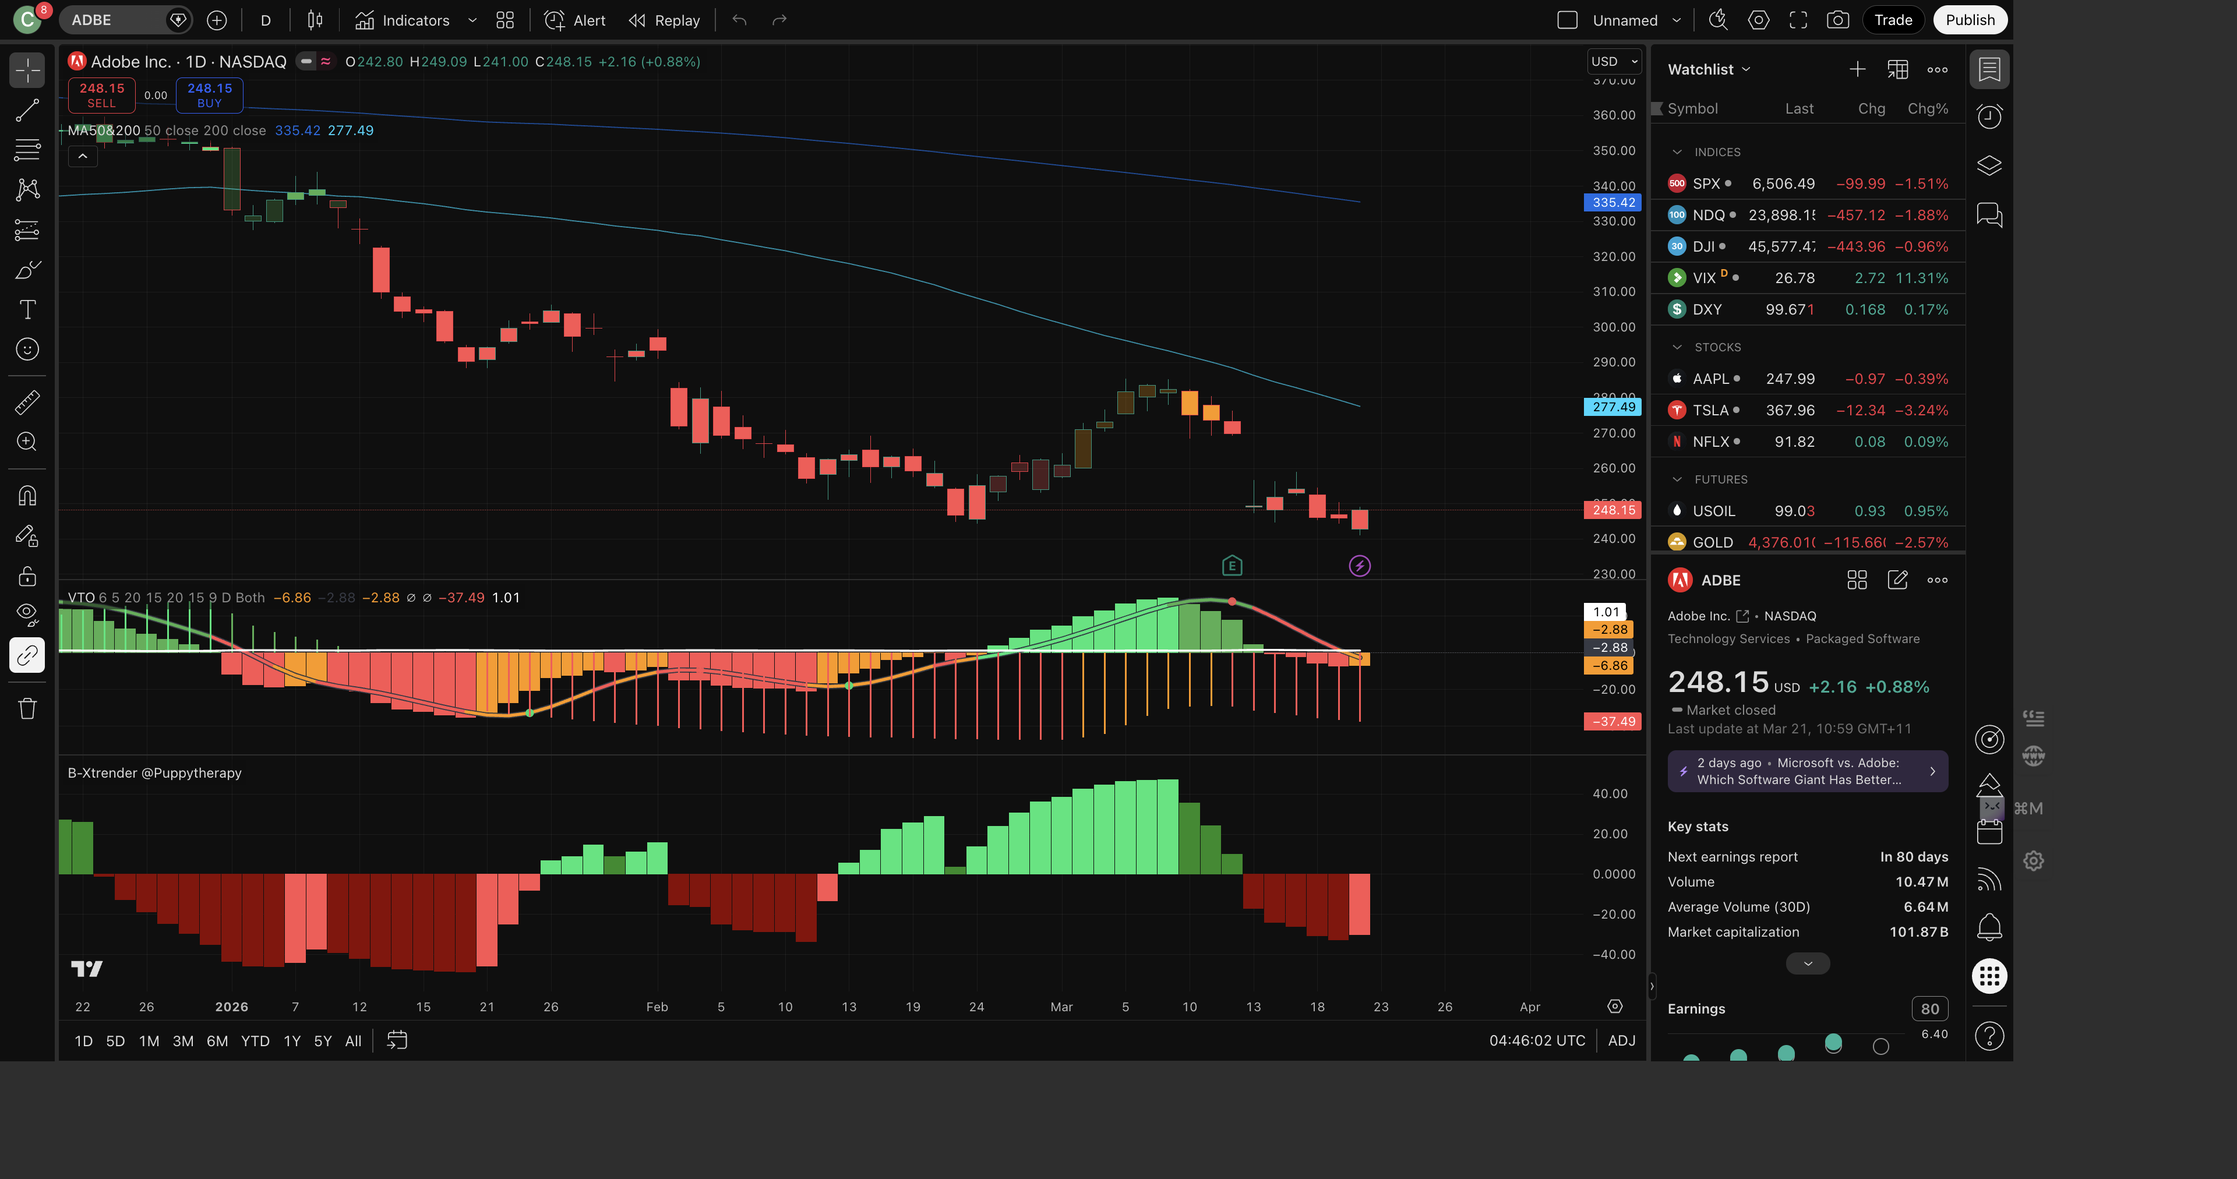
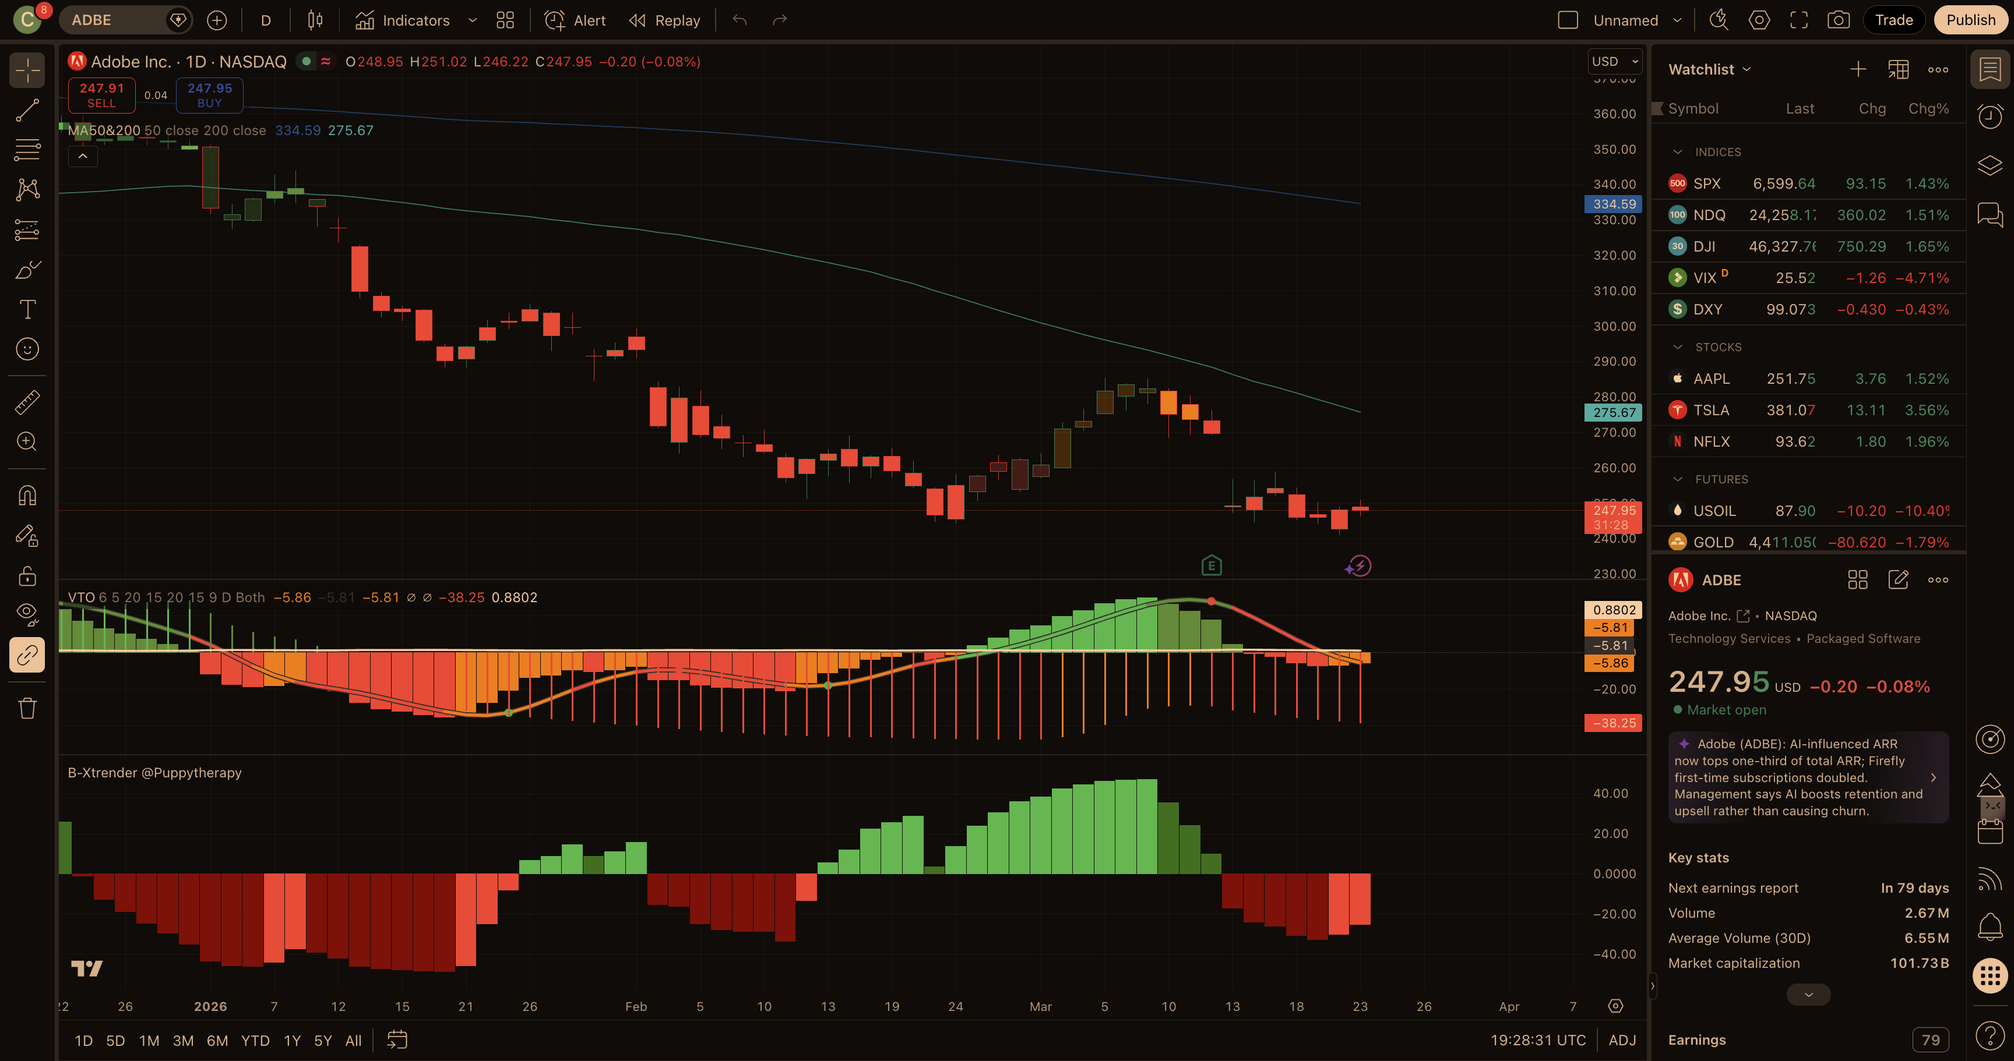
24 march

diff --git a/strategies/bearish-call-spread/report.md b/strategies/bearish-call-spread/report.md
@@ -1,142 +1,146 @@
 # Bearish Call Spread — Current Report
-_Last updated: 2026-03-23_
+_Last updated: 2026-03-24_
 
 ---
 
 ## Market Context
 
-The S&P 500 (~6,506) is trading **below** its 200-day moving average (~6,624), consistent with a repair phase after the mid-March breakdown rather than a confirmed new leg up. The **VIX is elevated near ~27**, which keeps index option premium firm and generally supports credit-spread structures—provided short calls are placed **above** obvious moving-average and supply ceilings. Bear call spreads still face gap risk on sharp tech-led bounces, so the emphasis remains on layered resistance and conservative short deltas rather than squeezing strikes.
+The S&P 500 (SPY ~$657.6) is effectively **on** its 200-day moving average (~$656.9) and **below** the 50-day (~$681.5)—a choppy repair phase rather than a clean bull trend. **VIX ~25.4** is just inside the “elevated” band (~25), which helps credit pricing but also warns that gap-and-go rallies can still occur. For bear call spreads, that combination argues for **conservative short strikes** (ideally at/above obvious MA/supply ceilings) and verification that momentum indicators are not mid-bounce.
 
 ---
 
 ## Scan & Triage (this run)
 
-**Source:** User watchlist screenshot (22 symbols). **Prices used for analysis** are live Yahoo quotes as of this run (aligned with scan direction; intraday watchlist prints may differ slightly).
+**Source:** User watchlist / scan image (21 symbols). **Live prices & MAs** for triage and scoring were pulled via Yahoo Finance (unofficial) as of this run; watchlist prints in the screenshot may differ slightly.
 
-**Triage cuts (abbreviated):** **WFC / COF / MS** — financials showing relative strength or bounce risk vs. the bear thesis; **GOOG, GILD, BMY, RTX, TJX, MRK, SBUX** — trading **above** the 200-day MA, which weakens Category A “broader downtrend” scoring; **ANET** — perched ~flat on the 200-day; **HOOD** — first clean overhead supply sits materially above spot vs. tighter MA-defined ceilings elsewhere; **JPM / DIS** — workable charts but deprioritized vs. deeper software breakdowns already in the triage funnel. Full research concentrated on **ADBE, ORCL, NOW, CRWD, AMZN**; **CRWD** and **AMZN** scored below the top three on the combined resistance / fundamental-bearish grid.
+**Universe (from image):** PM, WFC, GE, TSLA, AVGO, GOOG, GILD, ADBE, SBUX, TXN, META, NOW, AAPL, HOOD, BMY, V, NVDA, KO, CRM, AMZN, RTX.
+
+**Triage cuts (abbreviated):**
+
+- **GOOG, GILD, BMY, RTX, KO, SBUX, AAPL** — spot still **above** the 200-day MA in Yahoo history, which weakens Category A “broader downtrend” quality versus names trading under both major MAs.
+- **AVGO** — price essentially **pinned** to the 200-day; chop risk versus cleaner “below both MAs” software breakdowns.
+- **PM, GE, TXN** — **flat to slightly above** the 200-day; workable but deprioritized vs. deeper large-cap tech/media breakdowns.
+- **WFC, HOOD, TSLA, V, NVDA, AMZN, CRM** — retained for scoring funnel; **CRM** reached the numeric top tier but **failed full TradingView bearish alignment** (see below), so **META** was substituted as the third final pick.
 
 ---
 
 ## Today's Top Picks
 
-### 1. ADBE — Premium reset + declining 50/200-day ceiling
+### 1. META — Mega-cap breakdown; regulatory headline overhang
 
 ```
-Ticker: ADBE
-Current Price: $248.15
-Sector: Technology / Software
-Score: 74/100 (A:36 B:23 C:6 D:14 Ded:-5)
+Ticker: META
+Current Price: $606.49
+Sector: Communication Services / Internet Content
+Score: 70/100 (A:38 B:15 C:2 D:15 Ded:0)
 
 Setup Summary:
-Adobe is working through a post–Figma-deal multiple compression while price remains trapped under a falling 50-day (~$276) and a much higher 200-day (~$335). That creates a natural “stair-step” resistance story for a bear call: rallies should start stalling into the high-$260s / low-$280s before a sustained recovery is credible.
+Meta has rolled over into a clear sub–50-day / sub–200-day posture after the peak-to-trough unwind from ~$740s. That layers a practical overhead “staircase” through the high-$600s into $700, which is attractive for a defined-risk call spread that stays above the nearest moving-average supply.
 
-Entry Zone: $248.15
-Stop Loss: N/A (spread: structure risk if spot sustains above short strike + net credit)
+Entry Zone: $606.49
+Stop Loss: N/A (spread: max loss if spot sustains above short strike + net credit)
 Target 1: N/A | Target 2: N/A
 Risk/Reward: Credit spread — max risk = width − net credit (verify in chain)
 
-Resistance Level: $275–$290 — 50-day MA slope + March supply shelf into the lower end of the broken base
+Resistance Level: $649–$689 — declining 50-day (~$649) into the prior 200-day / supply zone (~$689)
 
 Suggested Spread:
-  Short Call Strike: $285 (~0.18–0.22 delta) — above the 50-day / supply band
-  Long Call Strike:  $300 — $15-wide
-  Target Expiry:     April 2026 (~30 DTE)
+  Short Call Strike: $700 (~0.15–0.22 delta — confirm) — above layered overhead into $700 supply
+  Long Call Strike:  $720 — $20-wide
+  Target Expiry:     17 Apr 2026 (~24 DTE)
   Est. Probability of Profit: ~82% (delta proxy; confirm on platform)
 
-Short Strike Level (Stop Reference): $285 — breach reference for 14-day outcome tracking
+Short Strike Level (Stop Reference): $700 — 14-day outcome = spot vs this strike
 
 Key Risks:
-- Oversold rallies into the 50-day are common in software
-- AI / Firefly / product cadence can restore narrative momentum
-- Rates-driven multiple expansion can lift all high-quality SaaS
+- Mega-cap index risk-on days can produce violent cover rallies
+- Regulatory headlines (e.g., EU/WhatsApp scrutiny) can move the tape both directions
+- Still a high-quality business — this is primarily a trend + positioning trade
 
 Fundamental Note:
-Adobe remains highly cash-generative, but growth has cooled and sentiment is still normalizing after the abandoned Figma acquisition and a slower digital-media expansion path.
+Profitability remains strong; the bearish edge is technical (broken intermediate trend) plus headline/regulatory friction rather than balance-sheet distress.
 ```
 
-**TradingView** (saved layout `z25AhAlV`, 1D, NASDAQ:ADBE): VTO red **sell** dot **yes**; B-Xtrender **bearish** (red below zero) **yes**. **Chart confirm: full** (snapshot below).
+**TradingView** (layout `z25AhAlV`, 1D, NASDAQ:META): VTO **bearish / sub-zero regime** on latest bars. B-Xtrender **bearish** (red below zero). Screenshot: `assets/tradingview-META.png`. **Chart confirm: full.**
+
+![TradingView — META — VTO + B-Xtrender](assets/tradingview-META.png)
+
+---
+
+### 2. ADBE — Premium reset; declining 50/200-day ceiling
+
+```
+Ticker: ADBE
+Current Price: $247.81
+Sector: Technology / Software — Application
+Score: 69/100 (A:38 B:15 C:6 D:15 Ded:-5)
+
+Setup Summary:
+Adobe remains trapped under a falling 50-day (~$276) and a much higher 200-day (~$335), with a practical supply shelf into the high-$260s / $280 zone before a durable recovery is credible. That makes a short call near/above $285 a structurally intuitive ceiling for a monthly credit spread.
+
+Entry Zone: $247.81
+Stop Loss: N/A (spread)
+Target 1: N/A | Target 2: N/A
+Risk/Reward: Credit spread — verify net credit vs. $15 width
+
+Resistance Level: $265–$285 — local swing supply into the declining 50-day / March shelf
+
+Suggested Spread:
+  Short Call Strike: $285 (~0.18–0.22 delta — confirm)
+  Long Call Strike:  $300 — $15-wide
+  Target Expiry:     17 Apr 2026 (~24 DTE)
+  Est. Probability of Profit: ~80–83% (proxy)
+
+Short Strike Level (Stop Reference): $285
+
+Key Risks:
+- Bounces into the declining 50-day are common in high-quality software
+- Product / AI cadence can restore narrative momentum quickly
+- Year-low zone (~$241) is nearby — bounce volatility risk (reflected in the score deduction)
+
+Fundamental Note:
+Cash generation remains solid, but growth has cooled and sentiment is still normalizing after the abandoned Figma deal and a slower expansion path.
+```
+
+**TradingView** (NASDAQ:ADBE): VTO **bearish / negative regime**; B-Xtrender **bearish** (deep red below zero on latest bars). Screenshot: `assets/tradingview-ADBE.png`. **Chart confirm: full.**
 
 ![TradingView — ADBE — VTO + B-Xtrender](assets/tradingview-ADBE.png)
 
 ---
 
-### 2. ORCL — AI multiple unwind with 50-day and pivot band overhead
-
-```
-Ticker: ORCL
-Current Price: $149.68
-Sector: Technology / Cloud & Database
-Score: 72/100 (A:37 B:23 C:2 D:12 Ded:-2)
-
-Setup Summary:
-Oracle has been repriced as part of the broader AI-infrastructure sentiment unwind. Price sits below both the 50-day (~$162) and 200-day (~$220), with an intermediate pivot / supply zone historically near **$170–$175** before the much higher long-term MA. That layering supports a short call above the near-term pivot while remaining far under the secular moving-average ceiling.
-
-Entry Zone: $149.68
-Stop Loss: N/A (spread)
-Target 1: N/A | Target 2: N/A
-Risk/Reward: Credit spread — verify net credit vs. $15 width
-
-Resistance Level: $162 → $175 — 50-day MA into the pre-breakdown pivot / supply area
-
-Suggested Spread:
-  Short Call Strike: $175 (~0.17–0.20 delta) — above the pivot band, under the 200-day
-  Long Call Strike:  $190 — $15-wide
-  Target Expiry:     April 2026 (~30 DTE)
-  Est. Probability of Profit: ~84%
-
-Short Strike Level (Stop Reference): $175
-
-Key Risks:
-- Hyperscaler capex headlines can reignite AI-beta squeezes
-- Oracle’s cloud backlog and contract cadence remain fundamentally strong
-- Realized volatility can expand quickly on macro headlines
-
-Fundamental Note:
-The business is not “broken,” but the **equity** is de-rating on debate over durability and payback on AI/datacenter spend—exactly the kind of narrative that keeps recovery paths uneven.
-```
-
-**TradingView** (saved layout `z25AhAlV`, 1D, NYSE:ORCL): VTO red **sell** dot **yes**; B-Xtrender **bearish** (red below zero) **yes**. **Chart confirm: full** (snapshot below).
-
-![TradingView — ORCL — VTO + B-Xtrender](assets/tradingview-ORCL.png)
-
----
-
-### 3. NOW — Large-cap SaaS breakdown; 50-day + $120–$126 pivot band
+### 3. NOW — Large-cap SaaS breakdown; 50-day + pivot band ceiling
 
 ```
 Ticker: NOW
-Current Price: $110.38
-Sector: Technology / Enterprise Software
-Score: 68/100 (A:35 B:21 C:0 D:12 Ded:0)
+Current Price: $111.21
+Sector: Technology / Software — Application
+Score: 64/100 (A:37 B:15 C:0 D:12 Ded:0)
 
 Setup Summary:
-ServiceNow is a quality franchise, which **caps** fundamental bearish scoring, but technically it is a clean large-cap SaaS breakdown: the first meaningful supply sits near the **50-day (~$116)** and the **$120–$126** January pivot / bounce-failure zone. A bear call spread can lean on that ceiling while acknowledging that fundamentals alone are not a disaster case.
+ServiceNow is a quality franchise (limits fundamental bearish points), but technically it is a clean large-cap SaaS breakdown: the first meaningful supply sits near the **50-day (~$116)** and the **$120–$126** pivot / bounce-failure band. A bear call spread can lean on that ceiling while keeping risk defined.
 
-Entry Zone: $110.38
+Entry Zone: $111.21
 Stop Loss: N/A (spread)
 Target 1: N/A | Target 2: N/A
-Risk/Reward: Credit spread — verify net credit vs. $10 width
+Risk/Reward: Credit spread — verify net credit vs. $12 width
 
-Resistance Level: $116–$126 — 50-day MA + recent pivot / failed bounce band
+Resistance Level: $116–$126 — 50-day MA + January pivot / failed bounce band
 
 Suggested Spread:
-  Short Call Strike: $125 (~0.18–0.22 delta) — at/above the pivot band
-  Long Call Strike:  $135 — $10-wide
-  Target Expiry:     April 2026 (~30 DTE)
-  Est. Probability of Profit: ~86%
+  Short Call Strike: $128 (~0.18–0.24 delta — confirm)
+  Long Call Strike:  $140 — $12-wide
+  Target Expiry:     17 Apr 2026 (~24 DTE)
+  Est. Probability of Profit: ~84–86% (proxy)
 
-Short Strike Level (Stop Reference): $125
+Short Strike Level (Stop Reference): $128
 
 Key Risks:
-- Broad mega-cap tech rallies can drag enterprise software beta higher
-- Large deal cycles and renewals can re-accelerate sentiment
-- Already-compressed multiples can mean faster snapbacks if rates fall
-
-Fundamental Note:
-ServiceNow is still a durable grower; the thesis here is **primarily technical**—selling defined-risk calls above a well-defined MA + pivot ceiling after persistent lower highs.
+- Broad software / AI-beta rallies can lift the group
+- Enterprise renewals and deal cadence can stabilize sentiment
+- Compressed multiples can mean faster snapbacks if rates fall
 ```
 
-**TradingView** (saved layout `z25AhAlV`, 1D, NYSE:NOW): VTO red **sell** dot **yes**; B-Xtrender **bearish** (red below zero) **yes**. **Chart confirm: full** (snapshot below).
+**TradingView** (NYSE:NOW): B-Xtrender **bearish flip** (red on the latest bar / sub-zero). VTO pane still shows **mixed momentum** (fading green / not a clean isolated red sell dot on the right edge). Screenshot: `assets/tradingview-NOW.png`. **Chart confirm: partial** (B-Xtrender yes; VTO not a clean sell-dot confirmation).
 
 ![TradingView — NOW — VTO + B-Xtrender](assets/tradingview-NOW.png)
 
@@ -147,18 +151,21 @@ _Recommendations from the last 14 days with no outcome recorded yet._
 
 | Date | Ticker | Entry Price | Short Strike | Setup Summary |
 |---|---|---|---|---|
-| 2026-03-11 | QCOM | $134.55 | $155 – 50-day MA ($153.41) / Apple modem structural ceiling | Short $155/$165 call spread \| Apr 2026 (~37 DTE) \| ~84% PoP |
-| 2026-03-11 | JPM | $286.65 | $310 – 50-day MA ($312.43) / broken 200-day MA ($297.55) resistance cluster | Short $310/$325 call spread \| Apr 2026 (~37 DTE) \| ~78% PoP |
-| 2026-03-11 | CVS | $76.46 | $83 – 50-day MA zone / 52-week high resistance area ($85.15) | Short $83/$91 call spread \| Apr 2026 (~37 DTE) \| ~87–90% PoP |
-| 2026-03-17 | UNH | $285.78 | $300 – 50-day MA (~$299.50) / death cross ceiling | Short $300/$315 call spread \| Apr 2026 (~31 DTE) \| ~85% PoP |
-| 2026-03-17 | JPM | $286.26 | $310 – 50-day MA (~$312) / broken 200-day MA ($297.55) resistance cluster | Short $310/$325 call spread \| Apr 2026 (~31 DTE) \| ~81% PoP |
-| 2026-03-17 | BA | $213.88 | $240 – 50-day MA ($240.20) / prior supply zone from February breakdown | Short $240/$255 call spread \| Apr 2026 (~31 DTE) \| ~87% PoP |
-| 2026-03-19 | UNH | $283.70 | $330 – above 200-day MA ($314.48) / prior breakdown ceiling | Short $330/$345 call spread \| Apr 2026 (~36 DTE) \| ~83% PoP |
-| 2026-03-19 | TSLA | $393.22 | $450 – above 50-day MA ($417.61) / failed-bounce supply zone | Short $450/$475 call spread \| Apr 2026 (~36 DTE) \| ~82% PoP |
-| 2026-03-19 | CVS | $73.07 | $83 – above 50-day MA ($77.91) / recent 60-day high zone | Short $83/$90 call spread \| Apr 2026 (~36 DTE) \| ~77% PoP |
-| 2026-03-21 | ADBE | $248.15 | $285 – above 50-day MA (~$276) / March supply shelf | Short $285/$300 call spread \| Apr 2026 (~30 DTE) \| ~82% PoP |
-| 2026-03-21 | ORCL | $149.68 | $175 – below 200-day MA (~$220) / pre-breakdown pivot zone | Short $175/$190 call spread \| Apr 2026 (~30 DTE) \| ~84% PoP |
-| 2026-03-21 | NOW | $110.38 | $125 – 50-day MA (~$116) + recent bounce failure zone | Short $125/$135 call spread \| Apr 2026 (~30 DTE) \| ~86% PoP |
+| 2026-03-17 | UNH | $285.78 | $300 – 50-day MA (~$299.50) / death cross ceiling… | Short $300/$315 call spread \| Apr 2026 (~31 DTE) \| ~85% PoP \| Death cross confirmed; first projected annual revenue cont… |
+| 2026-03-17 | JPM | $286.26 | $310 – 50-day MA (~$312) / broken 200-day MA ($297.55) resis… | Short $310/$325 call spread \| Apr 2026 (~31 DTE) \| ~81% PoP \| Broken below 200-day MA ($297.55) — now resistance; 50-day… |
+| 2026-03-17 | BA | $213.88 | $240 – 50-day MA ($240.20) / prior supply zone from February… | Short $240/$255 call spread \| Apr 2026 (~31 DTE) \| ~87% PoP \| Below both 50-day ($240.20) and 200-day ($219.90) MAs; MFI… |
+| 2026-03-19 | UNH | $283.70 | $330 – above 200-day MA ($314.48) / prior breakdown ceiling… | Short $330/$345 call spread \| Apr 2026 (~36 DTE) \| ~83% PoP \| Managed-care margin pressure, DOJ scrutiny, and a layered … |
+| 2026-03-19 | TSLA | $393.22 | $450 – above 50-day MA ($417.61) / failed-bounce supply zone… | Short $450/$475 call spread \| Apr 2026 (~36 DTE) \| ~82% PoP \| Delivery-growth expectations keep getting cut, IV remains … |
+| 2026-03-19 | CVS | $73.07 | $83 – above 50-day MA ($77.91) / recent 60-day high zone… | Short $83/$90 call spread \| Apr 2026 (~36 DTE) \| ~77% PoP \| Medicare Advantage rate pressure keeps the sector under stre… |
+| 2026-03-21 | ADBE | $248.15 | $285 – above 50-day MA (~$276) / March supply shelf… | Short $285/$300 call spread \| Apr 2026 (~30 DTE) \| ~82% PoP \| Post-Figma trade narrative still caps multiples; price tra… |
+| 2026-03-21 | ORCL | $149.68 | $175 – below 200-day MA (~$220) / pre-breakdown pivot zone… | Short $175/$190 call spread \| Apr 2026 (~30 DTE) \| ~84% PoP \| AI-datacenter euphoria unwind leaves ORCL below both major… |
+| 2026-03-21 | NOW | $110.38 | $125 – 50-day MA (~$116) + recent bounce failure zone… | Short $125/$135 call spread \| Apr 2026 (~30 DTE) \| ~86% PoP \| Workflow automation demand is fine, but the chart is a cle… |
+| 2026-03-23 | ORCL | $149.68 | $175 – 50-day MA (~$162) / $170–172 pivot below 200-day (~$2… | Short $175/$190 call spread \| Apr 17 2026 (~25 DTE) \| ~82–84% PoP est \| Price ~32% below 200-day; first durable supply i… |
+| 2026-03-23 | ADBE | $248.15 | $285 – 50-day MA (~$277) / March supply shelf into $275–$290… | Short $285/$300 call spread \| Apr 17 2026 (~25 DTE) \| ~80–83% PoP est \| Trapped under falling 50/200-day MAs; nearest ha… |
+| 2026-03-23 | NOW | $110.38 | $128 – above 50-day MA (~$117) / $120–126 January pivot band… | Short $128/$140 call spread \| Apr 17 2026 (~25 DTE) \| ~84–86% PoP est \| Large-cap SaaS breakdown: lower highs with first… |
+| 2026-03-24 | META | $606.49 | $700 – above 50-day MA (~$649) / supply into prior 200-day z… | Short $700/$720 call spread \| Apr 17 2026 (~24 DTE) \| ~82% PoP est \| Well below declining 50- and 200-day MAs; layered o… |
+| 2026-03-24 | ADBE | $247.81 | $285 – 50-day MA (~$276) / March supply shelf into high-$260… | Short $285/$300 call spread \| Apr 17 2026 (~24 DTE) \| ~80–83% PoP est \| Trapped under falling 50/200-day MAs; Apr17 285c… |
+| 2026-03-24 | NOW | $111.21 | $128 – above 50-day MA (~$116) / $120–126 January pivot band… | Short $128/$140 call spread \| Apr 17 2026 (~24 DTE) \| ~84–86% PoP est \| Large-cap SaaS breakdown: first durable supply a… |
 
 ---
 
@@ -169,16 +176,19 @@ _All checked trades (outcome recorded at 14-day mark; WIN = spot remained **belo
 |---|---|---|---|---|---|---|
 | 2026-03-07 | ABT | $108.66 | $105.46 | -2.95% | $120 | WIN |
 | 2026-03-07 | TSLA | $394.68 | $367.96 | -6.77% | $480 | WIN |
-| 2026-03-07 | KKR | $90.99 | $90.00 | -1.09% | $105 | WIN |
+| 2026-03-07 | KKR | $90.99 | $90.0 | -1.09% | $105 | WIN |
 | 2026-03-07 | UNH | $284.75 | $275.59 | -3.22% | $315 | WIN |
 | 2026-03-07 | MS | $160.47 | $161.47 | 0.62% | $180 | WIN |
 | 2026-03-07 | DIS | $101.66 | $99.51 | -2.12% | $115 | WIN |
+| 2026-03-11 | QCOM | $134.55 | $129.9 | -3.46% | $155 | WIN |
+| 2026-03-11 | JPM | $286.65 | $286.56 | -0.03% | $310 | WIN |
+| 2026-03-11 | CVS | $76.46 | $71.48 | -6.51% | $83 | WIN |
 
 ### Aggregate Stats
-- **Total checked:** 6
+- **Total checked:** 9
 - **Win rate (stock below short strike at 14 days):** 100%
-- **Average stock % move (all closed):** -2.59%
-- **Average stock % move on wins:** -2.59%
+- **Average stock % move (all closed):** -2.84%
+- **Average stock % move on wins:** -2.84%
 
 ---
 
